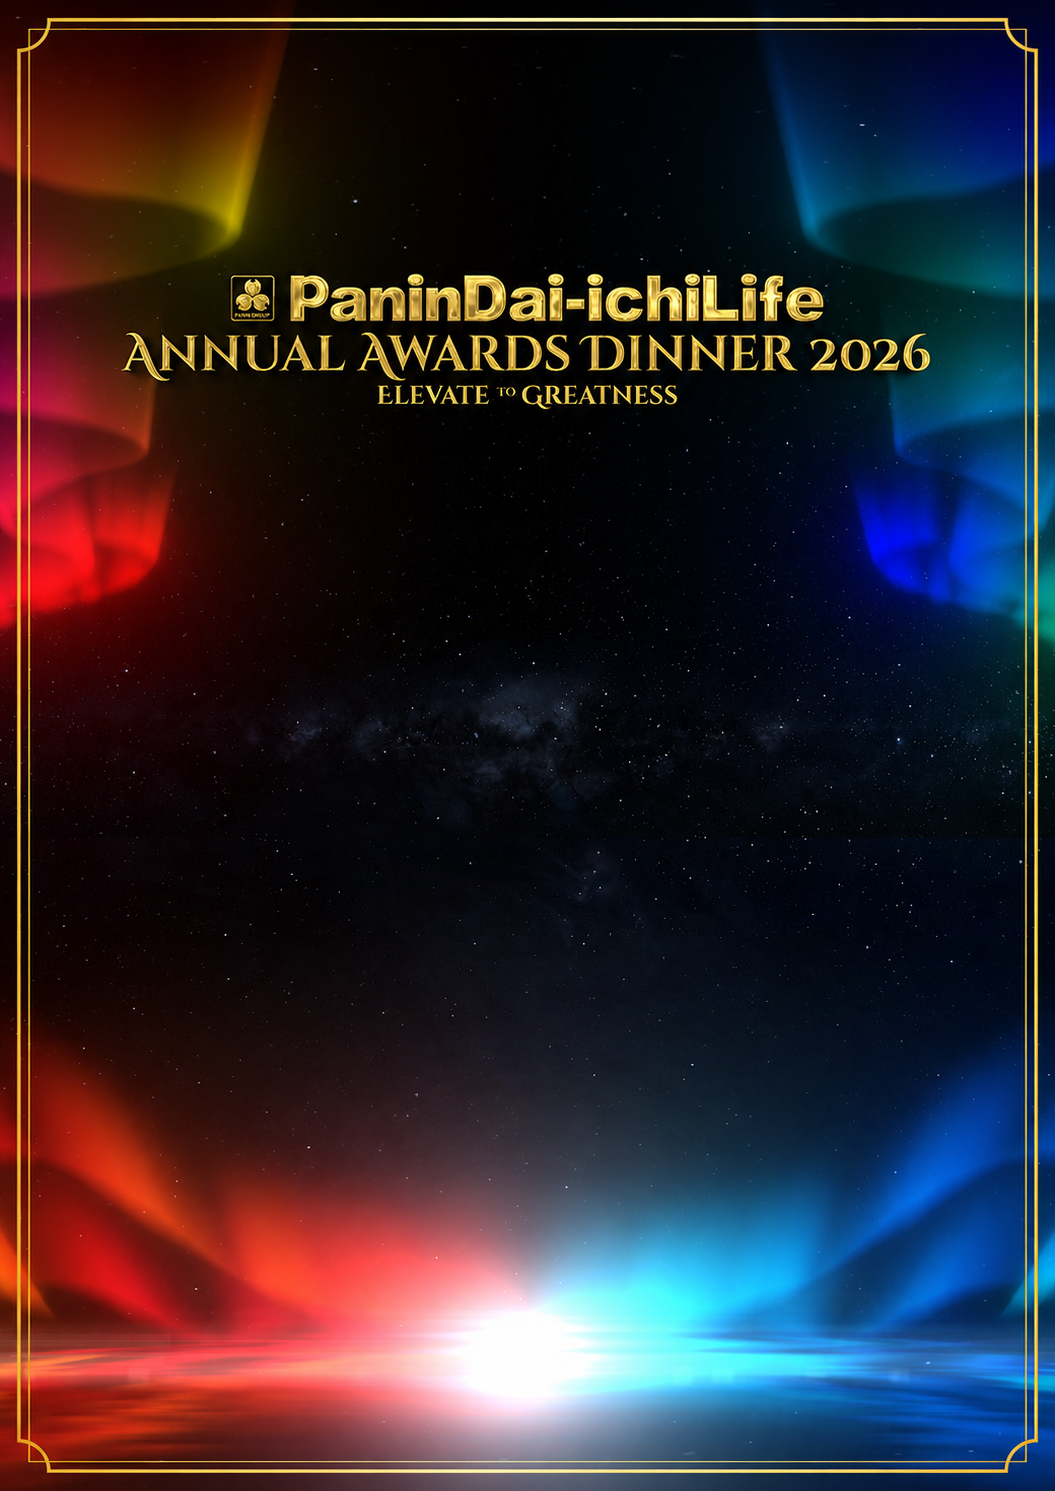
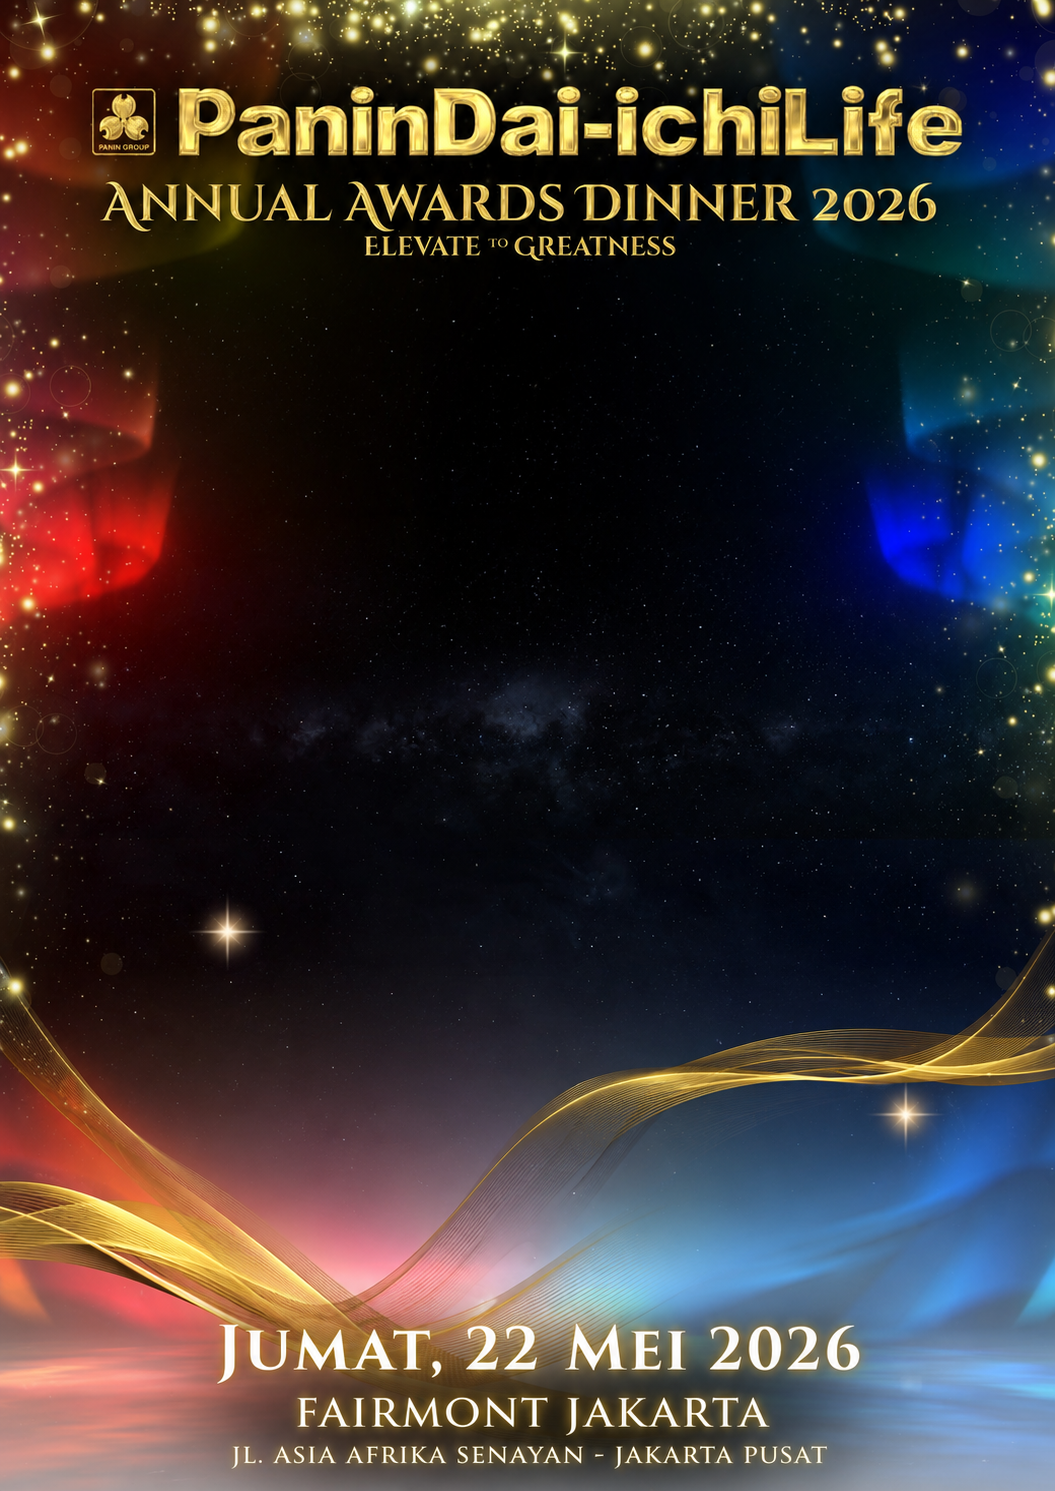
adjust layout invitation, add save sent wa time

diff --git a/backend/utils/reservationUtil.php b/backend/utils/reservationUtil.php
@@ -63,20 +63,31 @@ class ReservationUtil
 
         $width = imagesx($image);
         $height = imagesy($image);
+        $yPositionName = (int) round($height * 0.30);
+        $yGap = 60;
         $fontPath = $this->resolveFontPath();
 
-        $darkText = imagecolorallocate($image, 31, 35, 45);
         $goldenText = imagecolorallocate($image, 212, 175, 55);
 
         $fullName = $this->requiredValue($guest, 'fullName');
         $gaSoPosition = trim((string) ($guest['gaSoPosition'] ?? ''));
         $seatNumber = trim((string) ($guest['seatNumber'] ?? ''));
 
+        $boldFontPath = dirname(__DIR__) . '/templates/fonts/Cinzel/static/Cinzel-Bold.ttf';
+        $this->drawCenteredText($image, $boldFontPath, $fullName, (int) round($width * 0.04), $yPositionName, $goldenText);
+
+        if ($gaSoPosition !== '') {
+            $yPositionName += $yGap;
+            $this->drawCenteredText($image, $boldFontPath, $gaSoPosition, (int) round($width * 0.025), $yPositionName, $goldenText);
+        }
+
         $qrImage = $this->buildQrImage($guest);
         if ($qrImage !== null) {
+            $yPositionName += $yGap;
+
             $qrSize = (int) round(min($width, $height) * 0.35);
             $qrX = (int) round(($width - $qrSize) / 2);
-            $qrY = (int) round($height * 0.57);
+            $qrY = $yPositionName;
             imagecopyresampled(
                 $image,
                 $qrImage,
@@ -91,19 +102,13 @@ class ReservationUtil
             );
         }
 
-        $boldFontPath = dirname(__DIR__) . '/templates/fonts/Cinzel/static/Cinzel-Bold.ttf';
-        $this->drawCenteredText($image, $boldFontPath, $fullName, (int) round($width * 0.04), (int) round($height * 0.42), $goldenText);
-
-        if ($gaSoPosition !== '') {
-            $this->drawCenteredText($image, $boldFontPath, $gaSoPosition, (int) round($width * 0.025), (int) round($height * 0.48), $goldenText);
-        }
-
+        $yPositionName += $yGap + $qrSize;
         $this->drawCenteredText(
             $image,
             $boldFontPath,
             'Seat ' . ($seatNumber !== '' ? $seatNumber : 'Unassigned'),
             (int) round($width * 0.035),
-            (int) round($height * 0.54),
+            $yPositionName,
             $goldenText
         );
 

diff --git a/backend/src/Controllers/GuestController.php b/backend/src/Controllers/GuestController.php
@@ -51,10 +51,9 @@ Karena kualitas menciptakan kepercayaan, dan ketekunan melahirkan keberhasilan, 
 
 Dengan hormat, kami mengundang Bapak/Ibu untuk hadir pada:
 
-Event: Annual Awards Dinner 2026
-Date: 22nd May 2026
-Time: 7:00 PM - 11:00 PM
-Venue: Fairmont Jakarta
+Acara: Annual Awards Dinner 2026
+Hari/Tanggal: Jumat, 22 Mei 2026
+Lokasi: Fairmont Jakarta
 
 Merupakan suatu kehormatan bagi kami atas kehadiran Bapak/Ibu dalam malam apresiasi yang penuh makna ini.
 
@@ -64,6 +63,8 @@ PaninDai-ichiLife
 CP: 0812-3456-7890 (PaninDai-ichiLife)";
 
         $result = $this->wasender->sendDocument($phoneNumber, $documentUrl, $fileName, $textWA);
+
+        $this->guests->saveWaSentTime($id);
 
         return [
             'message' => 'Invitation sent successfully via WhatsApp.',

diff --git a/backend/src/Repositories/GuestRepository.php b/backend/src/Repositories/GuestRepository.php
@@ -161,6 +161,14 @@ class GuestRepository
         $statement->execute(['id' => $id]);
     }
 
+    public function saveWaSentTime(int $id): void
+    {
+        $statement = $this->database->connection()->prepare(
+            'UPDATE guests SET wa_sent_time = NOW() WHERE id = :id'
+        );
+        $statement->execute(['id' => $id]);
+    }
+
     public function markCheckedIn(int $id, string $method = 'qr_scan'): ?array
     {
         $statement = $this->database->connection()->prepare(

diff --git a/backend/src/Services/WasenderService.php b/backend/src/Services/WasenderService.php
@@ -37,6 +37,8 @@ class WasenderService
             ]);
         }
 
+        $response['waSentTime'] = date('Y-m-d H:i:s');
+
         return $response;
     }
 
